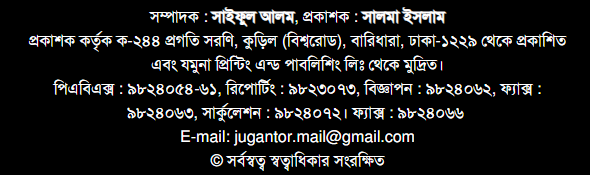
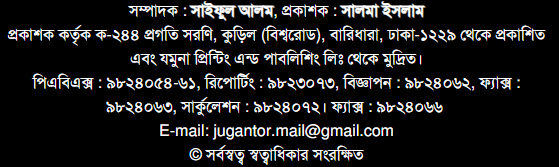
varieties

Changed region(s): [[0.0, 0.0, 0.9732, 0.8383], [0.3345, 0.8683, 0.6691, 0.988]]

diff --git a/lib/fragments/home_fragment.dart b/lib/fragments/home_fragment.dart
@@ -1144,10 +1144,23 @@ class HomeFragment extends GetView<HomeController> {
                     ),
 
                     //bottom 
-                    Image.asset('assets/images/jugantorbottom.png',
+                    // Image.asset('assets/images/jugantorbottom.png',
+                    //   width: width,
+                    //   //height: 200,
+                    // )
+                    Container(
+
+                      child:Text('সম্পাদক : সাইফুল আলম, প্রকাশক : সালমা ইসলাম প্রকাশক কর্তৃক ক-২৪৪ প্রগতি সরণি, কুড়িল (বিশ্বরোড), '
+                          'বারিধারা, ঢাকা-১২২৯ থেকে প্রকাশিত এবং যমুনা প্রিন্টিং এন্ড পাবলিশিং লিঃ থেকে মুদ্রিত। ''পিএবিএক্স : ৯৮২৪০৫৪-৬১, '
+                          'রিপোর্টিং : ৯৮২৩০৭৩, বিজ্ঞাপন : ৯৮২৪০৬২, ফ্যাক্স : ৯৮২৪০৬৩, '
+                          'সার্কুলেশন : ৯৮২৪০৭২। ফ্যাক্স : ৯৮২৪০৬৬'
+                          'E-mail: jugantor.mail@gmail.com',style: TextStyle(fontSize: 13,color: Colors.white),),
                       width: width,
-                      //height: 200,
-                    )
+                      padding: EdgeInsets.all(20),
+                      color: Colors.black,
+                      alignment: Alignment.center,
+                    ),
+
 
                   ],
                 ),
